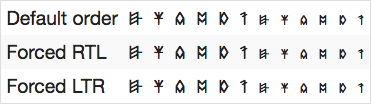
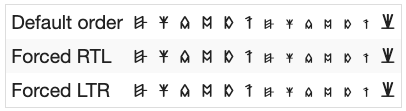
Add more details on the numeral 500
Also generate separate images for the Hungarian examples so the text is in Hungarian as well

Changed region(s): [[0.0, 0.0, 1.0, 1.0], [0.0, 0.4, 0.2965, 0.5714], [0.0, 0.7429, 0.2965, 0.8857]]

diff --git a/index_hu.html b/index_hu.html
@@ -115,6 +115,10 @@
         <p>Ezeket a ligatúrákat a szabvány értelmében a karakterpár, valamint a <code>U+200D zero width joiner</code> karakter összefésülésével lehet előhívni.
           Tehát például egy olyan betűtípusban, mely támogatja a kortárs ligatúrákat a <code>W</code> szimbólum eléréséhez az alábbiakat kell megadni: <code>U+10C93</code>(V) + <code>U+200D</code> + <code>U+10CA5</code>(V)</p>
 
+        <p>Az 500-as szám jelölésére használt (𐳻𐳾) szimbólum bár nem tartozik a szabvány közé, és nem szerepel az Unicode szabvány ligatúra ajánlásai között sem, ebben a betűkészletben a
+          <code>U+10CFB</code>(5) + <code>U+200D</code> + <code>U+10CFE</code>(100) sorozattal elérhető.
+          Mivel ez nem szabványos más Unicode szabványnak megfelelő betűtípusok nem biztos, hogy ezt a szimbólumot támogatják, illetve ha mégis, akkor nem biztos, hogy ugyanezzel a kódsorozattal.</p>
+
         <h3 id="test">Teszt</h3>
 
         <p>Az alábbiakban letesztelheti, hogy böngészője, illetve operációs rendszere helyesen kezeli-e rovásírást. A teszthez hasonlítsa össze az Aktuális, valamint az Elvárt oszlop tartalmát,
@@ -530,6 +534,7 @@
                       <td title="U+10CEE + U+200D + U+10CEE: OLD HUNGARIAN SMALL LETTER W LIGATURE (V+V)">𐳮𐳮</td>
                       <td title="U+10CD3 + U+200D + U+10CE5: OLD HUNGARIAN SMALL LETTER X LIGATURE (K+SZ)">𐳓𐳥</td>
                       <td title="U+10CD2 + U+200D + U+10CD0: OLD HUNGARIAN SMALL LETTER Y LIGATURE (J+I)">𐳒𐳐</td>
+                      <td title="U+10CFB + U+200D + U+10CFE: OLD HUNGARIAN NUMBER FIVE HUNDRED (5+100) /non-standard/">𐳻𐳾</td>
                     </tr>
                     <tr>
                       <td>Jobbról-balra írt</td>
@@ -545,6 +550,7 @@
                       <td title="U+10CEE + U+200D + U+10CEE: OLD HUNGARIAN SMALL LETTER W LIGATURE (V+V)">&#x202e;𐳮𐳮</td>
                       <td title="U+10CD3 + U+200D + U+10CE5: OLD HUNGARIAN SMALL LETTER X LIGATURE (K+SZ)">&#x202e;𐳓𐳥</td>
                       <td title="U+10CD2 + U+200D + U+10CD0: OLD HUNGARIAN SMALL LETTER Y LIGATURE (J+I)">&#x202e;𐳒𐳐</td>
+                      <td title="U+10CFB + U+200D + U+10CFE: OLD HUNGARIAN NUMBER FIVE HUNDRED (5+100) /non-standard/">&#x202e;𐳻𐳾</td>
                     </tr>
                     <tr>
                       <td>Balról-jobbra írt</td>
@@ -560,12 +566,13 @@
                       <td title="U+10CEE + U+200D + U+10CEE: OLD HUNGARIAN SMALL LETTER W LIGATURE (V+V)">&#x202d;𐳮𐳮</td>
                       <td title="U+10CD3 + U+200D + U+10CE5: OLD HUNGARIAN SMALL LETTER X LIGATURE (K+SZ)">&#x202d;𐳓𐳥</td>
                       <td title="U+10CD2 + U+200D + U+10CD0: OLD HUNGARIAN SMALL LETTER Y LIGATURE (J+I)">&#x202d;𐳒𐳐</td>
+                      <td title="U+10CFB + U+200D + U+10CFE: OLD HUNGARIAN NUMBER FIVE HUNDRED (5+100) - non-standard">&#x202d;𐳻𐳾</td>
                     </tr>
                   </tbody>
                 </table>
               </div>
               <div class="large-6 columns end">
-                <img src="images/ligature_table.png" />
+                <img src="images/ligature_table_hu.png" />
               </div>
             </div>
           </div>
@@ -593,6 +600,7 @@
                       <td title="U+10CEE + U+200D + U+10CEE: OLD HUNGARIAN SMALL LETTER W LIGATURE (V+V)">𐳮𐳮</td>
                       <td title="U+10CD3 + U+200D + U+10CE5: OLD HUNGARIAN SMALL LETTER X LIGATURE (K+SZ)">𐳓𐳥</td>
                       <td title="U+10CD2 + U+200D + U+10CD0: OLD HUNGARIAN SMALL LETTER Y LIGATURE (J+I)">𐳒𐳐</td>
+                      <td title="U+10CFB + U+200D + U+10CFE: OLD HUNGARIAN NUMBER FIVE HUNDRED (5+100) - non-standard">𐳻𐳾</td>
                     </tr>
                     <tr>
                       <td>Jobbról-balra írt</td>
@@ -608,6 +616,7 @@
                       <td title="U+10CEE + U+200D + U+10CEE: OLD HUNGARIAN SMALL LETTER W LIGATURE (V+V)">&#x202e;𐳮𐳮</td>
                       <td title="U+10CD3 + U+200D + U+10CE5: OLD HUNGARIAN SMALL LETTER X LIGATURE (K+SZ)">&#x202e;𐳓𐳥</td>
                       <td title="U+10CD2 + U+200D + U+10CD0: OLD HUNGARIAN SMALL LETTER Y LIGATURE (J+I)">&#x202e;𐳒𐳐</td>
+                      <td title="U+10CFB + U+200D + U+10CFE: OLD HUNGARIAN NUMBER FIVE HUNDRED (5+100) - non-standard">&#x202e;𐳻𐳾</td>
                     </tr>
                     <tr>
                       <td>Balról-jobbra írt</td>
@@ -623,12 +632,13 @@
                       <td title="U+10CEE + U+200D + U+10CEE: OLD HUNGARIAN SMALL LETTER W LIGATURE (V+V)">&#x202d;𐳮𐳮</td>
                       <td title="U+10CD3 + U+200D + U+10CE5: OLD HUNGARIAN SMALL LETTER X LIGATURE (K+SZ)">&#x202d;𐳓𐳥</td>
                       <td title="U+10CD2 + U+200D + U+10CD0: OLD HUNGARIAN SMALL LETTER Y LIGATURE (J+I)">&#x202d;𐳒𐳐</td>
+                      <td title="U+10CFB + U+200D + U+10CFE: OLD HUNGARIAN NUMBER FIVE HUNDRED (5+100) - non-standard">&#x202d;𐳻𐳾</td>
                     </tr>
                   </tbody>
                 </table>
               </div>
               <div class="large-6 columns end">
-                <img src="images/ligature_table.png" />
+                <img src="images/ligature_table_hu.png" />
               </div>
             </div>
           </div>
@@ -662,7 +672,7 @@
                 </table>
               </div>
               <div class="large-6 columns end">
-                <img src="images/rtl_table.png" />
+                <img src="images/rtl_table_hu.png" />
               </div>
             </div>
           </div>
@@ -695,7 +705,7 @@
                 </table>
               </div>
               <div class="large-6 columns end">
-                <img src="images/rtl_table.png" />
+                <img src="images/rtl_table_hu.png" />
               </div>
             </div>
           </div>

diff --git a/index_en.html b/index_en.html
@@ -114,6 +114,10 @@
         <p>Fonts might support these ligatures when they are combined with a <code>U+200D zero width joiner</code> character. So for example on supporting fonts the following three
           codepoints might return the ligature for the <code>W</code> glyph: <code>U+10C93</code>(V) + <code>U+200D</code> + <code>U+10CA5</code>(V)</p>
 
+        <p>The contemporary glyph for the number 500 (𐳻𐳾) is not part of the standard, and is not defined in the Unicode ligature suggestions as well. However this font supports it using the combination of
+          <code>U+10CFB</code>(5) + <code>U+200D</code> + <code>U+10CFE</code>(100)
+          Note that as this is not part of the standard other fonts might not support this, or support this ligature in a different ways.</p>
+
         <h3 id="test">Test</h3>
 
         <p>To test whether your system and/or browser supports Old Hungarian please check the following tables, where the expected and actual values should always look similar.</p>
@@ -528,6 +532,7 @@
                       <td title="U+10CEE + U+200D + U+10CEE: OLD HUNGARIAN SMALL LETTER W LIGATURE (V+V)">𐳮𐳮</td>
                       <td title="U+10CD3 + U+200D + U+10CE5: OLD HUNGARIAN SMALL LETTER X LIGATURE (K+SZ)">𐳓𐳥</td>
                       <td title="U+10CD2 + U+200D + U+10CD0: OLD HUNGARIAN SMALL LETTER Y LIGATURE (J+I)">𐳒𐳐</td>
+                      <td title="U+10CFB + U+200D + U+10CFE: OLD HUNGARIAN NUMBER FIVE HUNDRED (5+100) /non-standard/">𐳻𐳾</td>
                     </tr>
                     <tr>
                       <td>Forced RTL</td>
@@ -543,6 +548,7 @@
                       <td title="U+10CEE + U+200D + U+10CEE: OLD HUNGARIAN SMALL LETTER W LIGATURE (V+V)">&#x202e;𐳮𐳮</td>
                       <td title="U+10CD3 + U+200D + U+10CE5: OLD HUNGARIAN SMALL LETTER X LIGATURE (K+SZ)">&#x202e;𐳓𐳥</td>
                       <td title="U+10CD2 + U+200D + U+10CD0: OLD HUNGARIAN SMALL LETTER Y LIGATURE (J+I)">&#x202e;𐳒𐳐</td>
+                      <td title="U+10CFB + U+200D + U+10CFE: OLD HUNGARIAN NUMBER FIVE HUNDRED (5+100) /non-standard/">&#x202e;𐳻𐳾</td>
                     </tr>
                     <tr>
                       <td>Forced LTR</td>
@@ -558,6 +564,7 @@
                       <td title="U+10CEE + U+200D + U+10CEE: OLD HUNGARIAN SMALL LETTER W LIGATURE (V+V)">&#x202d;𐳮𐳮</td>
                       <td title="U+10CD3 + U+200D + U+10CE5: OLD HUNGARIAN SMALL LETTER X LIGATURE (K+SZ)">&#x202d;𐳓𐳥</td>
                       <td title="U+10CD2 + U+200D + U+10CD0: OLD HUNGARIAN SMALL LETTER Y LIGATURE (J+I)">&#x202d;𐳒𐳐</td>
+                      <td title="U+10CFB + U+200D + U+10CFE: OLD HUNGARIAN NUMBER FIVE HUNDRED (5+100) - non-standard">&#x202d;𐳻𐳾</td>
                     </tr>
                   </tbody>
                 </table>
@@ -591,6 +598,7 @@
                       <td title="U+10CEE + U+200D + U+10CEE: OLD HUNGARIAN SMALL LETTER W LIGATURE (V+V)">𐳮𐳮</td>
                       <td title="U+10CD3 + U+200D + U+10CE5: OLD HUNGARIAN SMALL LETTER X LIGATURE (K+SZ)">𐳓𐳥</td>
                       <td title="U+10CD2 + U+200D + U+10CD0: OLD HUNGARIAN SMALL LETTER Y LIGATURE (J+I)">𐳒𐳐</td>
+                      <td title="U+10CFB + U+200D + U+10CFE: OLD HUNGARIAN NUMBER FIVE HUNDRED (5+100) - non-standard">𐳻𐳾</td>
                     </tr>
                     <tr>
                       <td>Forced RTL</td>
@@ -606,6 +614,7 @@
                       <td title="U+10CEE + U+200D + U+10CEE: OLD HUNGARIAN SMALL LETTER W LIGATURE (V+V)">&#x202e;𐳮𐳮</td>
                       <td title="U+10CD3 + U+200D + U+10CE5: OLD HUNGARIAN SMALL LETTER X LIGATURE (K+SZ)">&#x202e;𐳓𐳥</td>
                       <td title="U+10CD2 + U+200D + U+10CD0: OLD HUNGARIAN SMALL LETTER Y LIGATURE (J+I)">&#x202e;𐳒𐳐</td>
+                      <td title="U+10CFB + U+200D + U+10CFE: OLD HUNGARIAN NUMBER FIVE HUNDRED (5+100) - non-standard">&#x202e;𐳻𐳾</td>
                     </tr>
                     <tr>
                       <td>Forced LTR</td>
@@ -621,6 +630,7 @@
                       <td title="U+10CEE + U+200D + U+10CEE: OLD HUNGARIAN SMALL LETTER W LIGATURE (V+V)">&#x202d;𐳮𐳮</td>
                       <td title="U+10CD3 + U+200D + U+10CE5: OLD HUNGARIAN SMALL LETTER X LIGATURE (K+SZ)">&#x202d;𐳓𐳥</td>
                       <td title="U+10CD2 + U+200D + U+10CD0: OLD HUNGARIAN SMALL LETTER Y LIGATURE (J+I)">&#x202d;𐳒𐳐</td>
+                      <td title="U+10CFB + U+200D + U+10CFE: OLD HUNGARIAN NUMBER FIVE HUNDRED (5+100) - non-standard">&#x202d;𐳻𐳾</td>
                     </tr>
                   </tbody>
                 </table>
